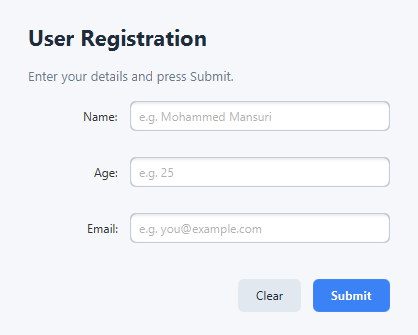
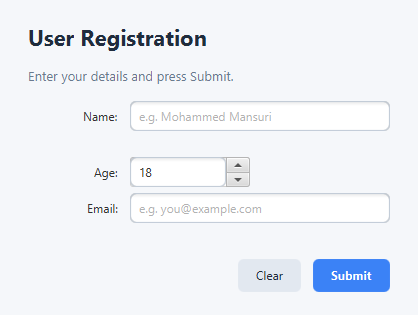
Use a Spinner (1-120, default 18) for the Age field
Mirrors the reference project's approach: the age input is now a Spinner
configured in the controller's initialize(), so age is always a valid whole
number and no longer needs text validation. Name and email validation and the
submit pop-up are unchanged. Screenshots regenerated.

diff --git a/src/controller/UserFormController.java b/src/controller/UserFormController.java
@@ -1,11 +1,16 @@
 package controller;
 
+import java.net.URL;
+import java.util.ResourceBundle;
 import java.util.regex.Pattern;
 
 import javafx.fxml.FXML;
+import javafx.fxml.Initializable;
 import javafx.scene.control.Alert;
 import javafx.scene.control.Alert.AlertType;
 import javafx.scene.control.Label;
+import javafx.scene.control.Spinner;
+import javafx.scene.control.SpinnerValueFactory;
 import javafx.scene.control.TextField;
 
 import model.User;
@@ -18,16 +23,15 @@ import model.User;
  * and - when everything is valid - builds a {@link User} and pops up a dialog
  * showing the details that were entered.
  */
-public class UserFormController {
+public class UserFormController implements Initializable {
 
     // --- Input fields injected from the FXML view ---
     @FXML private TextField nameField;
-    @FXML private TextField ageField;
+    @FXML private Spinner<Integer> ageSpinner;   // constrained to 1-120 in the view
     @FXML private TextField emailField;
 
     // --- Inline error labels injected from the FXML view ---
     @FXML private Label nameError;
-    @FXML private Label ageError;
     @FXML private Label emailError;
 
     // Basic, practical email pattern: something@something.tld
@@ -37,6 +41,17 @@ public class UserFormController {
     // Name: letters, spaces, apostrophes and hyphens, 2-50 chars.
     private static final Pattern NAME_PATTERN =
             Pattern.compile("^[A-Za-z][A-Za-z .'-]{1,49}$");
+
+    /**
+     * Called automatically by the FXMLLoader after the view is built.
+     * Sets up the age spinner so it only allows whole numbers from 1 to 120,
+     * starting at 18.
+     */
+    @Override
+    public void initialize(URL url, ResourceBundle rb) {
+        ageSpinner.setValueFactory(
+                new SpinnerValueFactory.IntegerSpinnerValueFactory(1, 120, 18));
+    }
 
     /**
      * Handles the Submit button. Runs all validations first; if any fail the
@@ -62,25 +77,10 @@ public class UserFormController {
             valid = false;
         }
 
-        // --- Age validation ---
-        String ageText = safeText(ageField);
-        int age = -1;
-        if (ageText.isEmpty()) {
-            ageError.setText("Age is required.");
-            problems.append("• Age is required.\n");
-            valid = false;
-        } else if (!ageText.matches("\\d{1,3}")) {
-            ageError.setText("Age must be a whole number.");
-            problems.append("• Age must be a whole number.\n");
-            valid = false;
-        } else {
-            age = Integer.parseInt(ageText);
-            if (age < 1 || age > 120) {
-                ageError.setText("Age must be between 1 and 120.");
-                problems.append("• Age must be between 1 and 120.\n");
-                valid = false;
-            }
-        }
+        // --- Age ---
+        // The Spinner can only hold a whole number from 1 to 120, so it is
+        // always valid; we just read the chosen value.
+        int age = ageSpinner.getValue();
 
         // --- Email validation ---
         String email = safeText(emailField);
@@ -111,14 +111,13 @@ public class UserFormController {
     @FXML
     private void handleClear() {
         nameField.clear();
-        ageField.clear();
+        ageSpinner.getValueFactory().setValue(18);
         emailField.clear();
         clearErrors();
     }
 
     private void clearErrors() {
         nameError.setText("");
-        ageError.setText("");
         emailError.setText("");
     }
 

diff --git a/README.md b/README.md
@@ -42,7 +42,8 @@ java -p "lib/javafx-base-21.0.6-win.jar;lib/javafx-graphics-21.0.6-win.jar;lib/j
 ## Validations
 
 - **Name** — required; 2–50 letters (spaces, `'` and `-` allowed).
-- **Age** — required; whole number between 1 and 120.
+- **Age** — chosen with a `Spinner` constrained to 1–120 (default 18), so it is
+  always a valid whole number.
 - **Email** — required; must match `something@something.tld`.
 
 Invalid fields show a red message inline **and** an error dialog listing every
